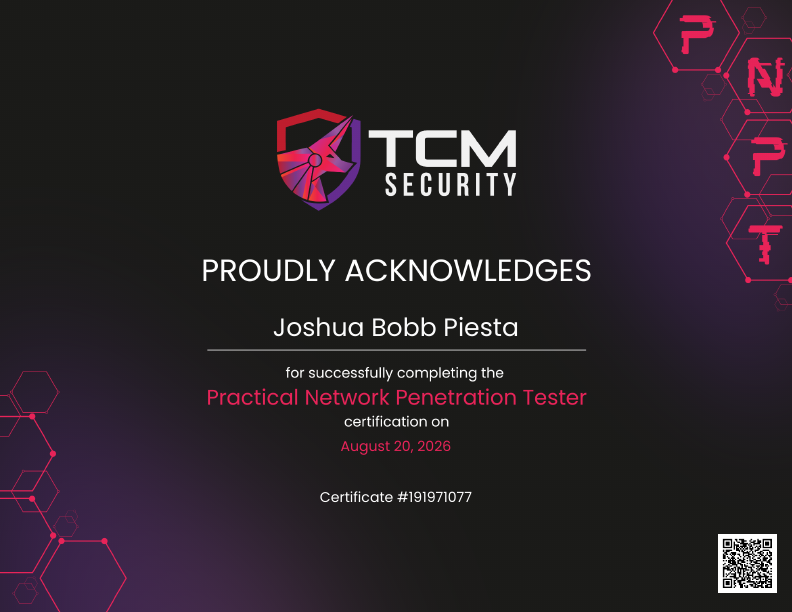
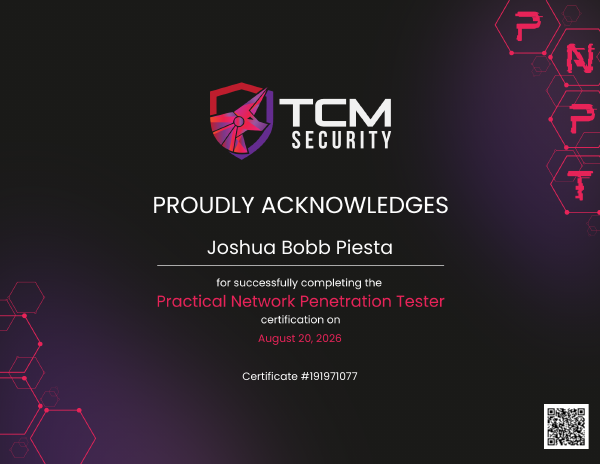
Replace certificate PDFs with low-res thumbnails; mask private Security+ details; add issuer verify links
Claude-Session: https://claude.ai/code/session_018NcGdhHxyN8nnj3fYuEE2T

diff --git a/UPDATE-GUIDE.md b/UPDATE-GUIDE.md
@@ -74,7 +74,8 @@ The site rebuilds itself in about a minute. If you made a typo that breaks the f
 5. **Commit changes**.
 
 Tips:
-- Best result: upload **both** a PNG/JPG screenshot (as `"image"`, shown as the thumbnail and in the lightbox) and the original PDF (as `"file"`, linked as "open PDF"). Either one alone also works.
+- **Upload a screenshot, not the original PDF.** A PNG/JPG around 600 px wide is enough to recognise the certificate. Original high-resolution PDFs are easy to forge or pass off, and anything committed to a public repo stays in its history. If the certificate prints a private verification code or extra personal details (middle name, address), blur them before uploading.
+- Prefer a **verification link** (`"verifyUrl"`) from the issuer: Credly, Accredible (credential.net), Aspen, etc. A working verify button proves the cert better than a hosted file.
 - Passed an exam but don't have the certificate yet? Add `"status": "exam-passed"` and a `"note": "..."` line, and leave `"issued": null`.
 - `"expires": null` if it never expires.
 - `"credentialId"`, `"verifyUrl"` and `"skills"` can be left as `""` or `[]` if you don't have them.

diff --git a/README.md b/README.md
@@ -191,7 +191,7 @@ It asks for the title, issuer, dates, credential ID, verify URL and the path to 
 3. `npm run check`, then commit and push.
 
 Notes:
-- `image` is a PNG/JPG thumbnail (opens in a lightbox); `file` is the original PDF (linked as "open PDF"). Use either or both.
+- `image` is a PNG/JPG thumbnail (opens in a lightbox). Upload a ~600 px screenshot rather than the original PDF, and blur any private verification codes first. `file` can link an original PDF, but on a public site that is not recommended.
 - `"status": "exam-passed"` with a `note` marks a passed exam whose certificate is still pending; `issued` may be `null`.
 - `expires: null` shows "No expiry". Expired certs get a red badge, certs expiring within 3 months get an amber badge.
 - Images open in a lightbox; PDFs open in a new tab.
